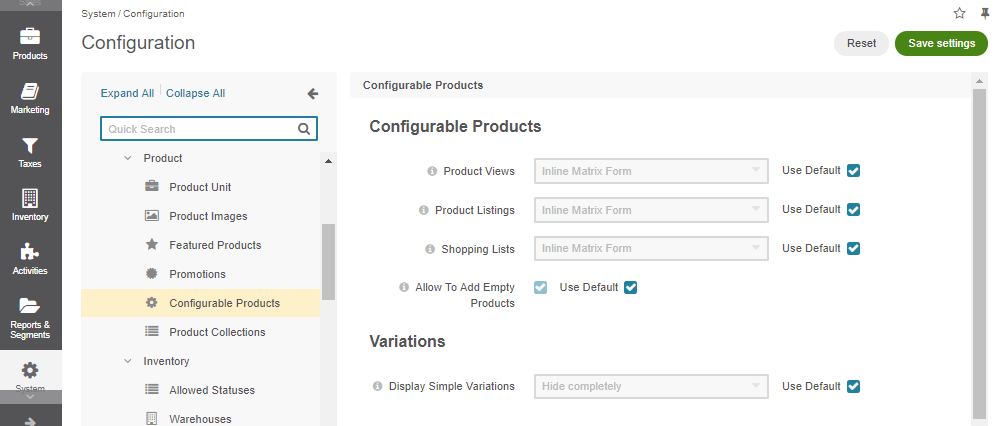
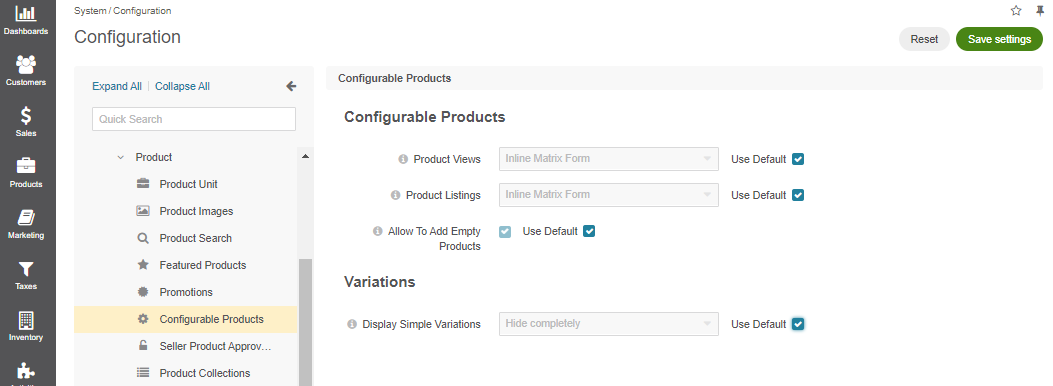
DOC-2135: Remove the `oro_product.matrix_form_on_shopping_list` option from the system configuration (#37156)

diff --git a/user/back-office/system/configuration/commerce/product/global-configurable-products.rst b/user/back-office/system/configuration/commerce/product/global-configurable-products.rst
@@ -36,8 +36,6 @@ To configure a matrix form view for a particular case:
 
     * **Popup Matrix Form** --- The option triggers a popup matrix form upon clicking the **Update Shopping List** button. Once the popup displays, a customer can select multiple simple products at a time.
 
-    * **Group Single Products** --- The option is available only for the shopping list view. It extracts the single products which were sent to the shopping list from the configurable product matrix.
-
 
 3. For **Product Views**, the options will look the following:
 
@@ -49,12 +47,7 @@ To configure a matrix form view for a particular case:
     .. image:: /user/img/system/config_commerce/product/matrix_view_on_product_listing.png
        :alt: Different matrix form view options displayed on the product listing page in the storefront
 
-5. For **Shopping Lists**:
-
-    .. image:: /user/img/system/config_commerce/product/matrix_form_view_in_shipping_lists.png
-       :alt: Different matrix form view options displayed in the storefront shopping list
-
-6. **Allow To Add Empty Products** --- If enabled, a customer can add a configurable product with an empty matrix form to a shopping list to manage it later. To disable this possibility, clear the **Use Default** checkbox next to the option and then the checkbox of the option itself.
+5. **Allow To Add Empty Products** --- If enabled, a customer can add a configurable product with an empty matrix form to a shopping list to manage it later. To disable this possibility, clear the **Use Default** checkbox next to the option and then the checkbox of the option itself.
 
 
 Variations

diff --git a/user/back-office/system/websites/web-configuration/commerce/product/website-configurable-products.rst b/user/back-office/system/websites/web-configuration/commerce/product/website-configurable-products.rst
@@ -33,9 +33,6 @@ To configure a matrix form view for a particular case:
 
     * **Popup Matrix Form** --- The option triggers a popup matrix form upon clicking the **Update Shopping List** button. Once the popup displays, a customer can select multiple simple products at a time.
 
-    * **Group Single Products** --- The option is available only for the shopping list view. It extracts the single products which were sent to the shopping list from the configurable product matrix.
-
-
 3. For **Product Views**, the options will look the following:
 
     .. image:: /user/img/system/config_commerce/product/matrix_view_on_product_page.png
@@ -44,11 +41,7 @@ To configure a matrix form view for a particular case:
 
     .. image:: /user/img/system/config_commerce/product/matrix_view_on_product_listing.png
 
-5. For **Shopping Lists**:
-
-    .. image:: /user/img/system/config_commerce/product/matrix_form_view_in_shipping_lists.png
-
-6. **Allow To Add Empty Products** --- If enabled, a customer can add a configurable product with an empty matrix form to a shopping list to manage it later. To disable this possibility, clear the **Use Organization** checkbox next to the option and then the checkbox of the option itself.
+5. **Allow To Add Empty Products** --- If enabled, a customer can add a configurable product with an empty matrix form to a shopping list to manage it later. To disable this possibility, clear the **Use Organization** checkbox next to the option and then the checkbox of the option itself.
 
 Variations
 ----------

diff --git a/user/back-office/system/user-management/organizations/org-configuration/commerce/product/organization-configurable-products.rst b/user/back-office/system/user-management/organizations/org-configuration/commerce/product/organization-configurable-products.rst
@@ -35,8 +35,6 @@ To configure a matrix form view for a particular case:
 
     * **Popup Matrix Form** --- The option triggers a popup matrix form upon clicking the **Update Shopping List** button. Once the popup displays, a customer can select multiple simple products at a time.
 
-    * **Group Single Products** --- The option is available only for the shopping list view. It extracts the single products which were sent to the shopping list from the configurable product matrix.
-
 
 3. For **Product Views**, the options will look the following:
 
@@ -46,11 +44,8 @@ To configure a matrix form view for a particular case:
 
     .. image:: /user/img/system/config_commerce/product/matrix_view_on_product_listing.png
 
-5. For **Shopping Lists**:
 
-    .. image:: /user/img/system/config_commerce/product/matrix_form_view_in_shipping_lists.png
-
-6. **Allow To Add Empty Products** --- If enabled, a customer can add a configurable product with an empty matrix form to a shopping list to manage it later. To disable this possibility, clear the **Use System** checkbox next to the option and then the checkbox of the option itself.
+5. **Allow To Add Empty Products** --- If enabled, a customer can add a configurable product with an empty matrix form to a shopping list to manage it later. To disable this possibility, clear the **Use System** checkbox next to the option and then the checkbox of the option itself.
 
 
 Variations
